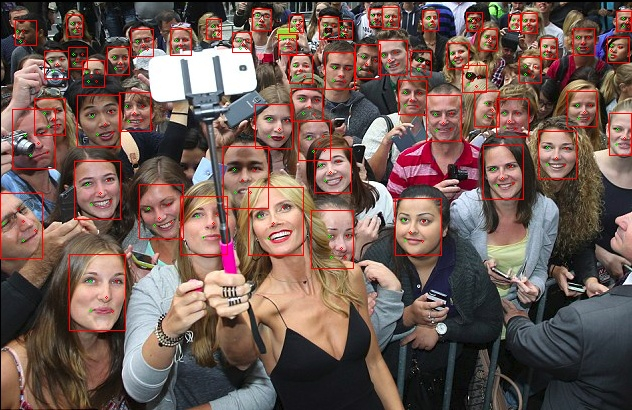
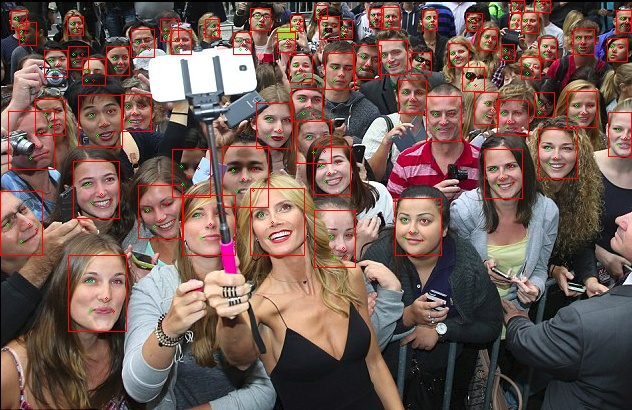
add rescaling before detection

diff --git a/retinaface.py b/retinaface.py
@@ -1,12 +1,13 @@
 from __future__ import print_function
 import numpy as np
+import cv2
 from rcnn.processing.bbox_transform import clip_boxes
 from rcnn.processing.generate_anchor import generate_anchors_fpn, anchors_plane
 from rcnn.processing.nms import gpu_nms_wrapper, cpu_nms_wrapper
 from networks.retinaface_network import RetinaFaceNetwork
 
 class RetinaFace:
-    def __init__(self, model_weights, use_gpu_nms=True, nms=0.4, decay4 = 0.5):
+    def __init__(self, model_weights, use_gpu_nms=True, nms=0.4, decay4=0.5):
         self.decay4 = decay4
         self.nms_threshold = nms
         self.fpn_keys = []
@@ -45,73 +46,76 @@ class RetinaFace:
         self.model = RetinaFaceNetwork(model_weights).model
 
 
-    def detect(self, img, threshold=0.5):
+    def detect(self, img, threshold=0.5, scales = [1.0]):
         proposals_list = []
         scores_list = []
         landmarks_list = []
-        img = img.astype(np.float32)
-        img = img.astype(np.float32)
-        im_info = [img.shape[0], img.shape[1]]
-        im_tensor = np.zeros((1, 3, img.shape[0], img.shape[1]))
-        for i in range(3):
-            im_tensor[0, i, :, :] = (img[:, :, 2 - i] / self.pixel_scale - self.pixel_means[2 - i]) / self.pixel_stds[
-                2 - i]
-        net_out = self.model.predict(im_tensor.transpose(0, 2, 3, 1))
-        net_out_reshaped = []
-        for elt in net_out:
-            net_out_reshaped.append(elt.transpose(0, 3, 1, 2))
-        net_out = net_out_reshaped
+        for im_scale in scales:
+            if im_scale != 1.0:
+                img = cv2.resize(img, None, None, fx=im_scale, fy=im_scale, interpolation=cv2.INTER_LINEAR)
+            img = img.astype(np.float32)
+            im_info = [img.shape[0], img.shape[1]]
+            im_tensor = np.zeros((1, 3, img.shape[0], img.shape[1]))
+            for i in range(3):
+                im_tensor[0, i, :, :] = (img[:, :, 2 - i] / self.pixel_scale - self.pixel_means[2 - i]) / self.pixel_stds[
+                    2 - i]
+            net_out = self.model.predict(im_tensor.transpose(0, 2, 3, 1))
+            net_out_reshaped = []
+            for elt in net_out:
+                net_out_reshaped.append(elt.transpose(0, 3, 1, 2))
+            net_out = net_out_reshaped
 
-        sym_idx = 0
+            sym_idx = 0
 
-        for _idx,s in enumerate(self._feat_stride_fpn):
-            _key = 'stride%s'%s
-            stride = int(s)
-            scores = net_out[sym_idx]
-            scores = scores[:, self._num_anchors['stride%s'%s]:, :, :]
+            for _idx,s in enumerate(self._feat_stride_fpn):
+                _key = 'stride%s'%s
+                stride = int(s)
+                scores = net_out[sym_idx]
+                scores = scores[:, self._num_anchors['stride%s'%s]:, :, :]
 
-            bbox_deltas = net_out[sym_idx + 1]
-            height, width = bbox_deltas.shape[2], bbox_deltas.shape[3]
+                bbox_deltas = net_out[sym_idx + 1]
+                height, width = bbox_deltas.shape[2], bbox_deltas.shape[3]
 
-            A = self._num_anchors['stride%s'%s]
-            K = height * width
-            anchors_fpn = self._anchors_fpn['stride%s'%s]
-            anchors = anchors_plane(height, width, stride, anchors_fpn)
-            anchors = anchors.reshape((K * A, 4))
-            scores = scores.transpose((0, 2, 3, 1)).reshape((-1, 1))
+                A = self._num_anchors['stride%s'%s]
+                K = height * width
+                anchors_fpn = self._anchors_fpn['stride%s'%s]
+                anchors = anchors_plane(height, width, stride, anchors_fpn)
+                anchors = anchors.reshape((K * A, 4))
+                scores = scores.transpose((0, 2, 3, 1)).reshape((-1, 1))
 
-            bbox_deltas = bbox_deltas.transpose((0, 2, 3, 1))
-            bbox_pred_len = bbox_deltas.shape[3]//A
-            bbox_deltas = bbox_deltas.reshape((-1, bbox_pred_len))
-            bbox_deltas[:, 0::4] = bbox_deltas[:,0::4] * self.bbox_stds[0]
-            bbox_deltas[:, 1::4] = bbox_deltas[:,1::4] * self.bbox_stds[1]
-            bbox_deltas[:, 2::4] = bbox_deltas[:,2::4] * self.bbox_stds[2]
-            bbox_deltas[:, 3::4] = bbox_deltas[:,3::4] * self.bbox_stds[3]
-            proposals = self.bbox_pred(anchors, bbox_deltas)
+                bbox_deltas = bbox_deltas.transpose((0, 2, 3, 1))
+                bbox_pred_len = bbox_deltas.shape[3]//A
+                bbox_deltas = bbox_deltas.reshape((-1, bbox_pred_len))
+                bbox_deltas[:, 0::4] = bbox_deltas[:,0::4] * self.bbox_stds[0]
+                bbox_deltas[:, 1::4] = bbox_deltas[:,1::4] * self.bbox_stds[1]
+                bbox_deltas[:, 2::4] = bbox_deltas[:,2::4] * self.bbox_stds[2]
+                bbox_deltas[:, 3::4] = bbox_deltas[:,3::4] * self.bbox_stds[3]
+                proposals = self.bbox_pred(anchors, bbox_deltas)
 
-            proposals = clip_boxes(proposals, im_info[:2])
-
-
-            if stride==4 and self.decay4<1.0:
-                scores *= self.decay4
-
-            scores_ravel = scores.ravel()
-            order = np.where(scores_ravel>=threshold)[0]
-            proposals = proposals[order, :]
-            scores = scores[order]
-
-            proposals_list.append(proposals)
-            scores_list.append(scores)
-
-            landmark_deltas = net_out[sym_idx + 2]
-            landmark_pred_len = landmark_deltas.shape[1]//A
-            landmark_deltas = landmark_deltas.transpose((0, 2, 3, 1)).reshape((-1, 5, landmark_pred_len//5))
-            landmarks = self.landmark_pred(anchors, landmark_deltas)
-            landmarks = landmarks[order, :]
+                proposals = clip_boxes(proposals, im_info[:2])
 
 
-            landmarks_list.append(landmarks)
-            sym_idx += 3
+                if stride==4 and self.decay4<1.0:
+                    scores *= self.decay4
+
+                scores_ravel = scores.ravel()
+                order = np.where(scores_ravel>=threshold)[0]
+                proposals = proposals[order, :]
+                scores = scores[order]
+
+                proposals[:, 0:4] /= im_scale
+                proposals_list.append(proposals)
+                scores_list.append(scores)
+
+                landmark_deltas = net_out[sym_idx + 2]
+                landmark_pred_len = landmark_deltas.shape[1]//A
+                landmark_deltas = landmark_deltas.transpose((0, 2, 3, 1)).reshape((-1, 5, landmark_pred_len//5))
+                landmarks = self.landmark_pred(anchors, landmark_deltas)
+                landmarks = landmarks[order, :]
+
+                landmarks[:, :, 0:2] /= im_scale
+                landmarks_list.append(landmarks)
+                sym_idx += 3
 
         proposals = np.vstack(proposals_list)
         if proposals.shape[0]==0:

diff --git a/test.py b/test.py
@@ -8,27 +8,39 @@ import os
 flags.DEFINE_string('weights_path', './data/retinafaceweights.npy',
                     'network weights path')
 flags.DEFINE_string('sample_img', './sample-images/random_internet_selfie.jpg', 'image to test on')
+# flags.DEFINE_string('sample_img', '/home/bertrans/Downloads/WIDER_val/images/2--Demonstration/2_Demonstration_Demonstration_Or_Protest_2_687.jpg', 'image to test on')
 flags.DEFINE_string('save_destination', 'retinaface_tf2_output.jpg', "destination image")
 flags.DEFINE_float('det_thresh', 0.8, "detection threshold")
 flags.DEFINE_float('nms_thresh', 0.4, "nms threshold")
 flags.DEFINE_bool('use_gpu_nms', True, "whethere to use gpu for nms")
 
+
 def _main(_argv):
     detector = RetinaFace(FLAGS.weights_path, FLAGS.use_gpu_nms, FLAGS.nms_thresh)
     img = cv2.imread(FLAGS.sample_img)
-    faces, landmarks = detector.detect(img, FLAGS.det_thresh)
+    scales = [1024, 1980]
+    im_shape = img.shape
+    target_size = scales[0]
+    max_size = scales[1]
+    im_size_min = np.min(im_shape[0:2])
+    im_size_max = np.max(im_shape[0:2])
+    im_scale = float(target_size) / float(im_size_min)
+    if np.round(im_scale * im_size_max) > max_size:
+        im_scale = float(max_size) / float(im_size_max)
+    scales = [im_scale]
+    faces, landmarks = detector.detect(img, FLAGS.det_thresh, scales=scales)
     if faces is not None:
         print('found', faces.shape[0], 'faces')
         for i in range(faces.shape[0]):
             box = faces[i].astype(np.int)
-            color = (0,0,255)
+            color = (0, 0, 255)
             cv2.rectangle(img, (box[0], box[1]), (box[2], box[3]), color, 1)
             if landmarks is not None:
                 landmark5 = landmarks[i].astype(np.int)
                 for l in range(landmark5.shape[0]):
-                    color = (0,0,255)
-                    if l==0 or l==3:
-                        color = (0,255,0)
+                    color = (0, 0, 255)
+                    if l == 0 or l == 3:
+                        color = (0, 255, 0)
                     cv2.circle(img, (landmark5[l][0], landmark5[l][1]), 1, color, 1)
 
     cv2.imwrite(FLAGS.save_destination, img)

diff --git a/eval_widerface.py b/eval_widerface.py
@@ -1,5 +1,6 @@
 import os
 import cv2
+import numpy as np
 from absl import app, flags, logging
 from absl.flags import FLAGS
 from retinaface import RetinaFace
@@ -8,13 +9,14 @@ from retinaface import RetinaFace
 flags.DEFINE_string('weights_path', './data/retinafaceweights.npy',
                     'network weights path')
 flags.DEFINE_string('widerface_data_dir', '/home/bertrans/Downloads/WIDER_val/images/', 'data directory of widerface test set')
-flags.DEFINE_string('save_folder', './WiderFace-Evaluation/results_val/',
+flags.DEFINE_string('save_folder', './WiderFace-Evaluation/results_val08/',
                     'folder path to save evaluate results')
 
 
-
 def _main(_argv):
-    detector = RetinaFace(FLAGS.weights_path, -1)
+    detector = RetinaFace(FLAGS.weights_path, use_gpu_nms = True)
+    if not os.path.isdir(FLAGS.save_folder):
+        os.mkdir(FLAGS.save_folder)
     subdirs = [x[0] for x in os.walk(FLAGS.widerface_data_dir)][1:]
     save_dir = FLAGS.save_folder
     for subdir in subdirs:
@@ -24,7 +26,18 @@ def _main(_argv):
             os.mkdir(output_dir)
         for file in os.listdir(subdir):
             img = cv2.imread(os.path.join(subdir, file))
-            faces, ldmks = detector.detect(img, 0.7)
+            scales = [1024, 1980]
+            im_shape = img.shape
+            target_size = scales[0]
+            max_size = scales[1]
+            im_size_min = np.min(im_shape[0:2])
+            im_size_max = np.max(im_shape[0:2])
+            im_scale = float(target_size) / float(im_size_min)
+            if np.round(im_scale * im_size_max) > max_size:
+                im_scale = float(max_size) / float(im_size_max)
+            scales = [im_scale]
+
+            faces, ldmks = detector.detect(img, 0.8, scales)
             with open(os.path.join(output_dir, file.replace("jpg", "txt")), "w+") as f:
                 f.write(file.split("/")[-1].split(".")[0] + "\n")
                 f.write(str(len(faces)) + "\n")
